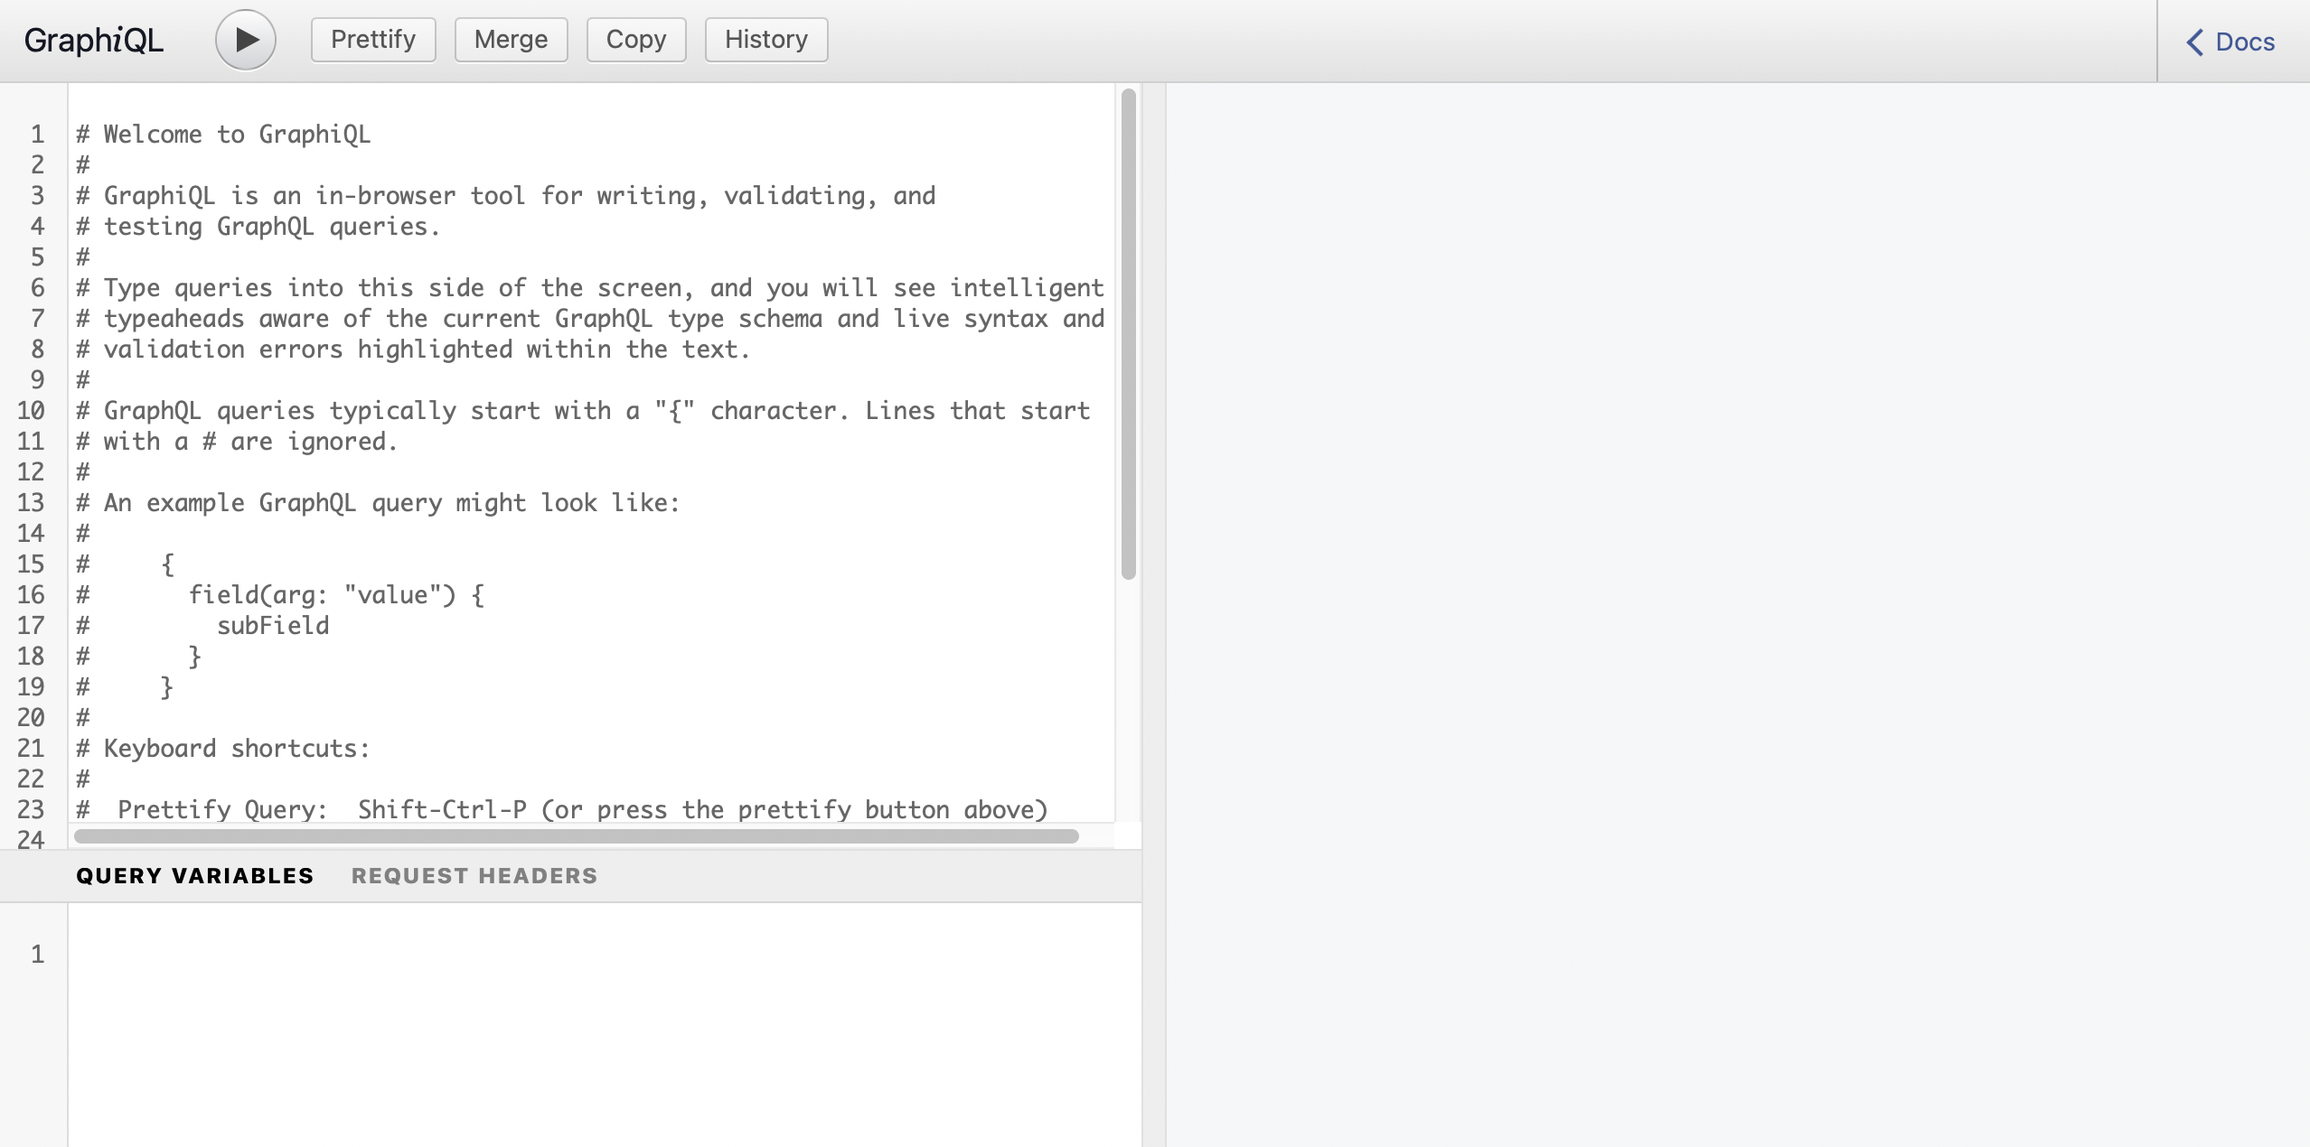
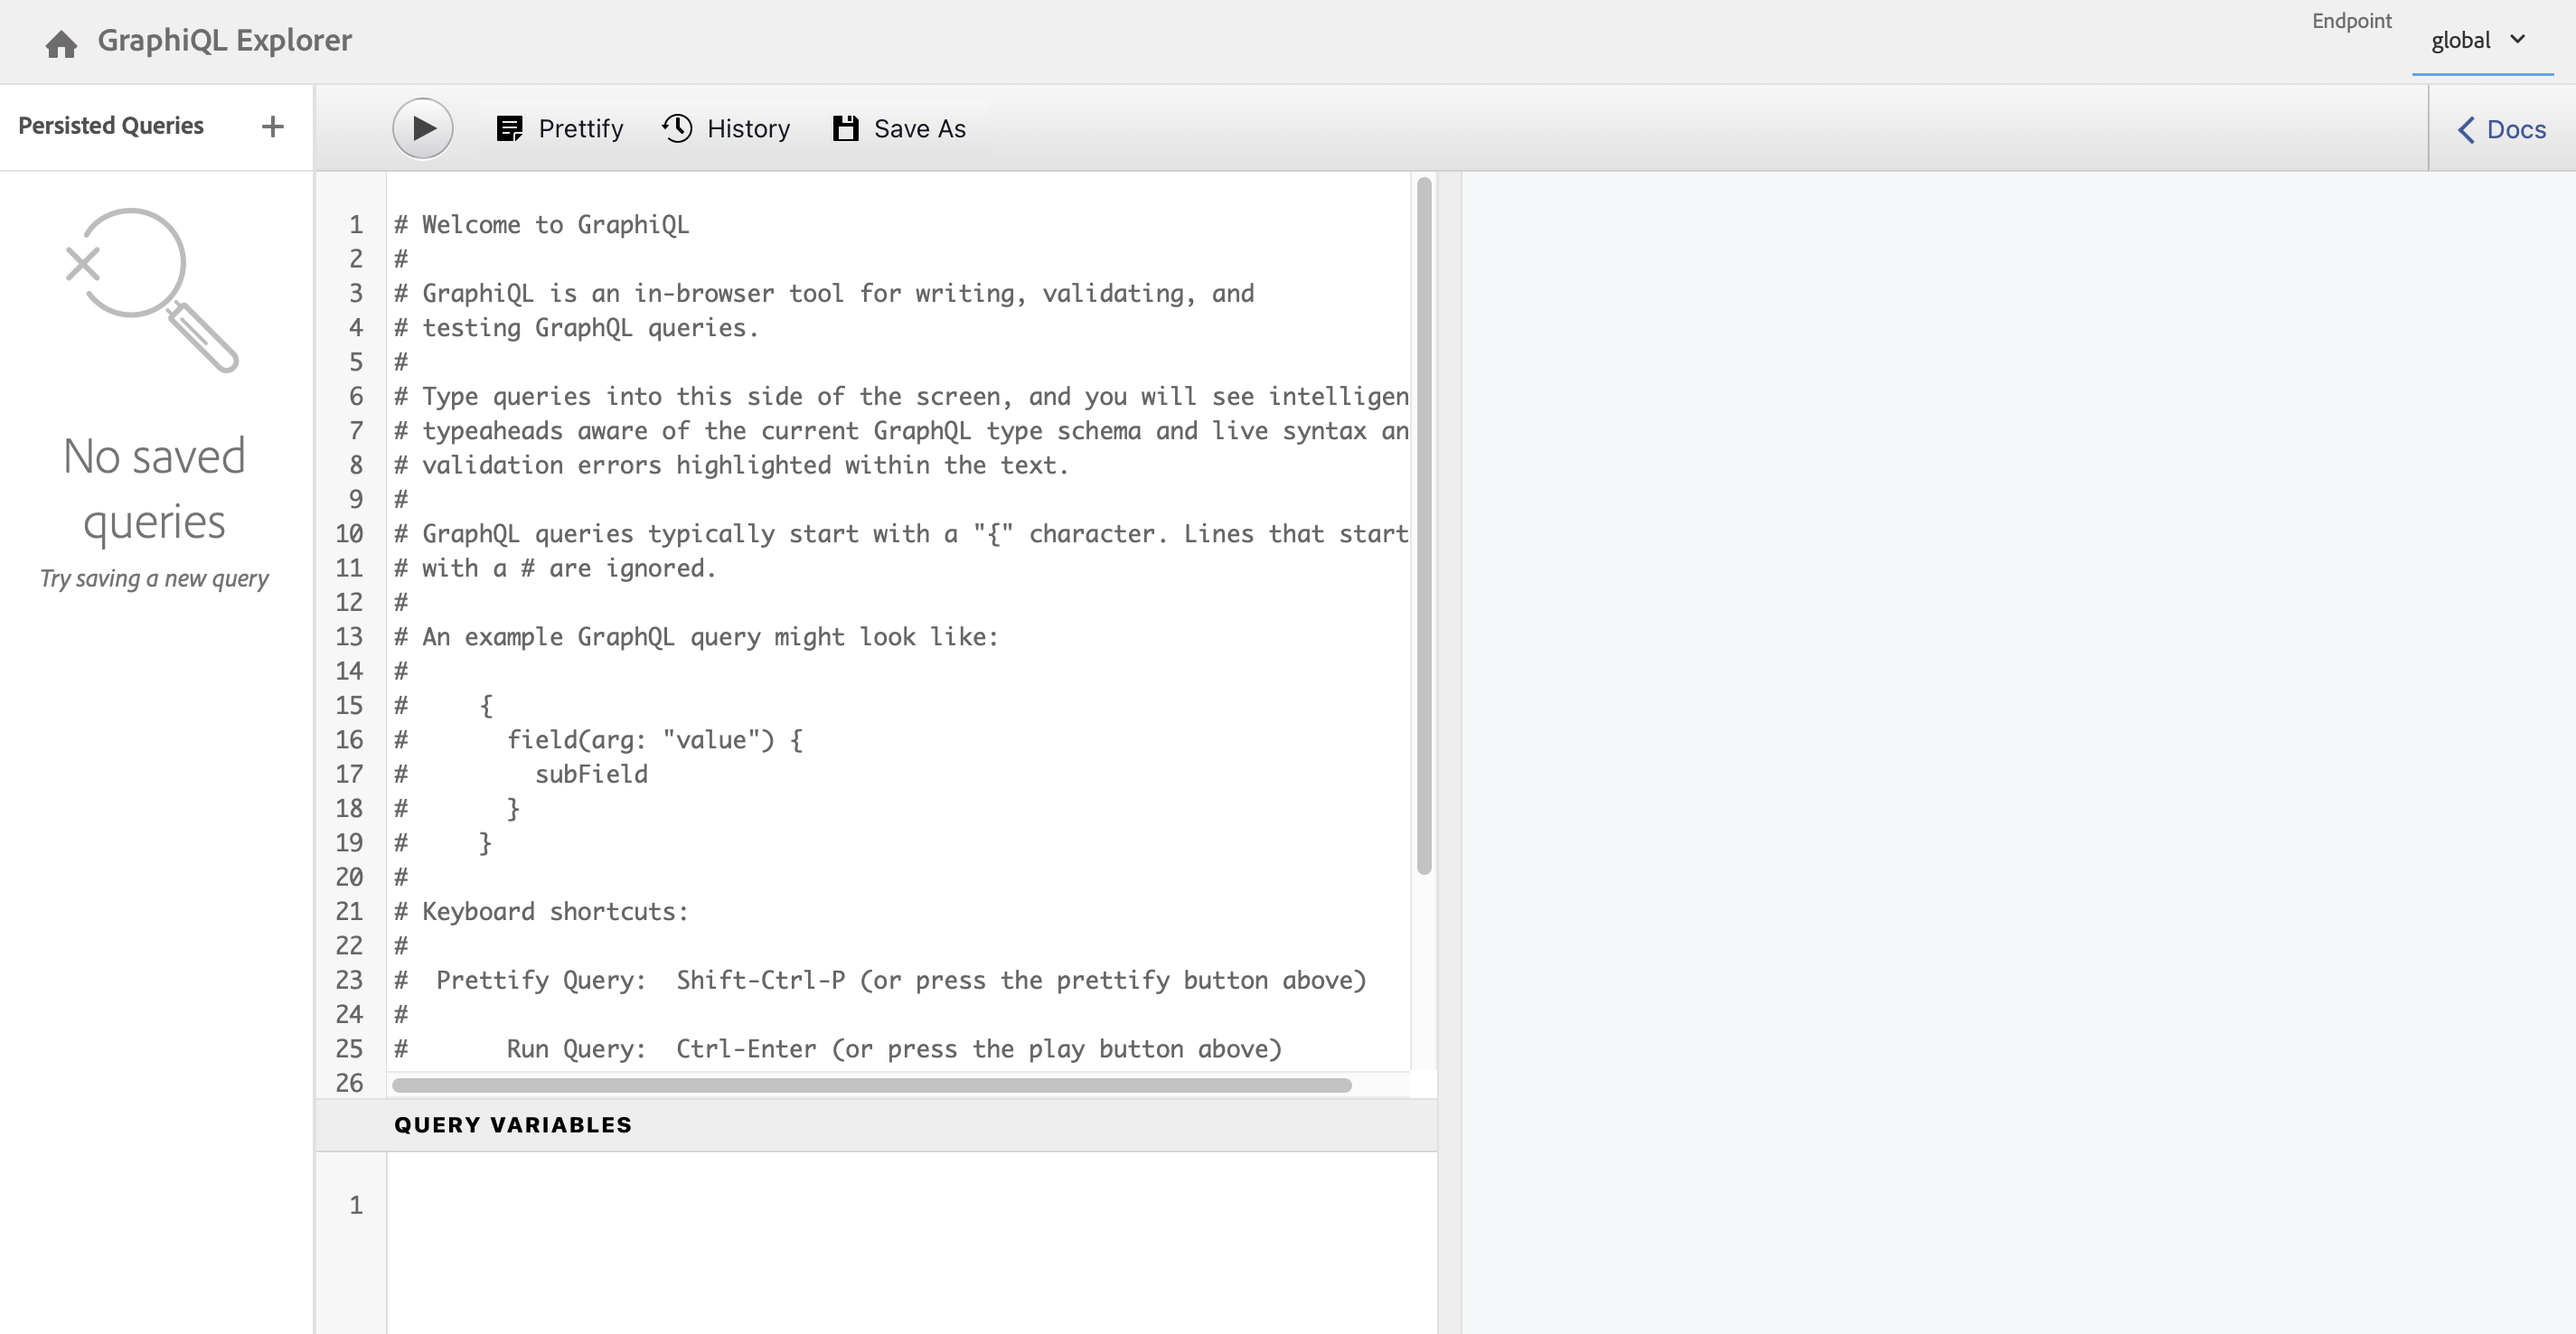
Rel65160-HeadlessSideports-01-06

diff --git a/help/sites-developing/headless/getting-started/create-api-request.md b/help/sites-developing/headless/getting-started/create-api-request.md
@@ -47,14 +47,17 @@ Information architects will need to design queries for their channel endpoints i
    ```
 
 1. Enter the query into the left panel.
+<!--
    ![GraphiQL query](../assets/graphiql-query.png)
+-->
 
-1. Click the **Execute Query** button or use the `Ctrl-Enter` hotkey and the results are displayed as JSON in the right panel.
+1. Click the **Execute Query** (right arrow) icon or use the `Ctrl-Enter` hotkey and the results are displayed as JSON in the right panel.
    ![GraphiQL results](../assets/graphiql-results.png)
 
 1. Click:
    * **Docs** at the top-right of the page to show in-context documentation to help you build your queries which adapts to your own models.
    * **History** in the top toolbar to show previous queries.
+   * **Save As** and **Save** to save your queries, after which you can list and retrieve them from the **Persisted Queries** panel and **Publish**.
    ![GraphiQL documentation](../assets/graphiql-documentation.png)
 
 GraphQL enables structured queries that can target not only specific data sets or individual data objects, but also can deliver specific elements of the objects, nested results, offers support for query variables, and much more.
@@ -67,5 +70,7 @@ That's it! You now have a basic understanding of headless content management in 
 
 * **[Configuration Browser](create-configuration.md)** - For details about the AEM Configuration Browser
 * **[Content Fragments](/help/assets/content-fragments/content-fragments.md)** - For details about creating and managing Content Fragments
+* **[GraphiQL IDE](/help/assets/content-fragments/graphiql-ide.md)** for further details of using the GraphiQL IDE
+* **[Persisted Queries](/help/assets/content-fragments/persisted-queries.md)** for further details of Persisted Queries
 * **[Content Fragments Support in AEM Assets HTTP API](/help/assets/assets-api-content-fragments.md)** - For details on accessing AEM content directly over the HTTP API, via CRUD operations (Create, Read, Update, Delete)
 * **[GraphQL API](/help/assets/content-fragments/graphql-api-content-fragments.md)** - For details on how to deliver Content Fragments headlessly
